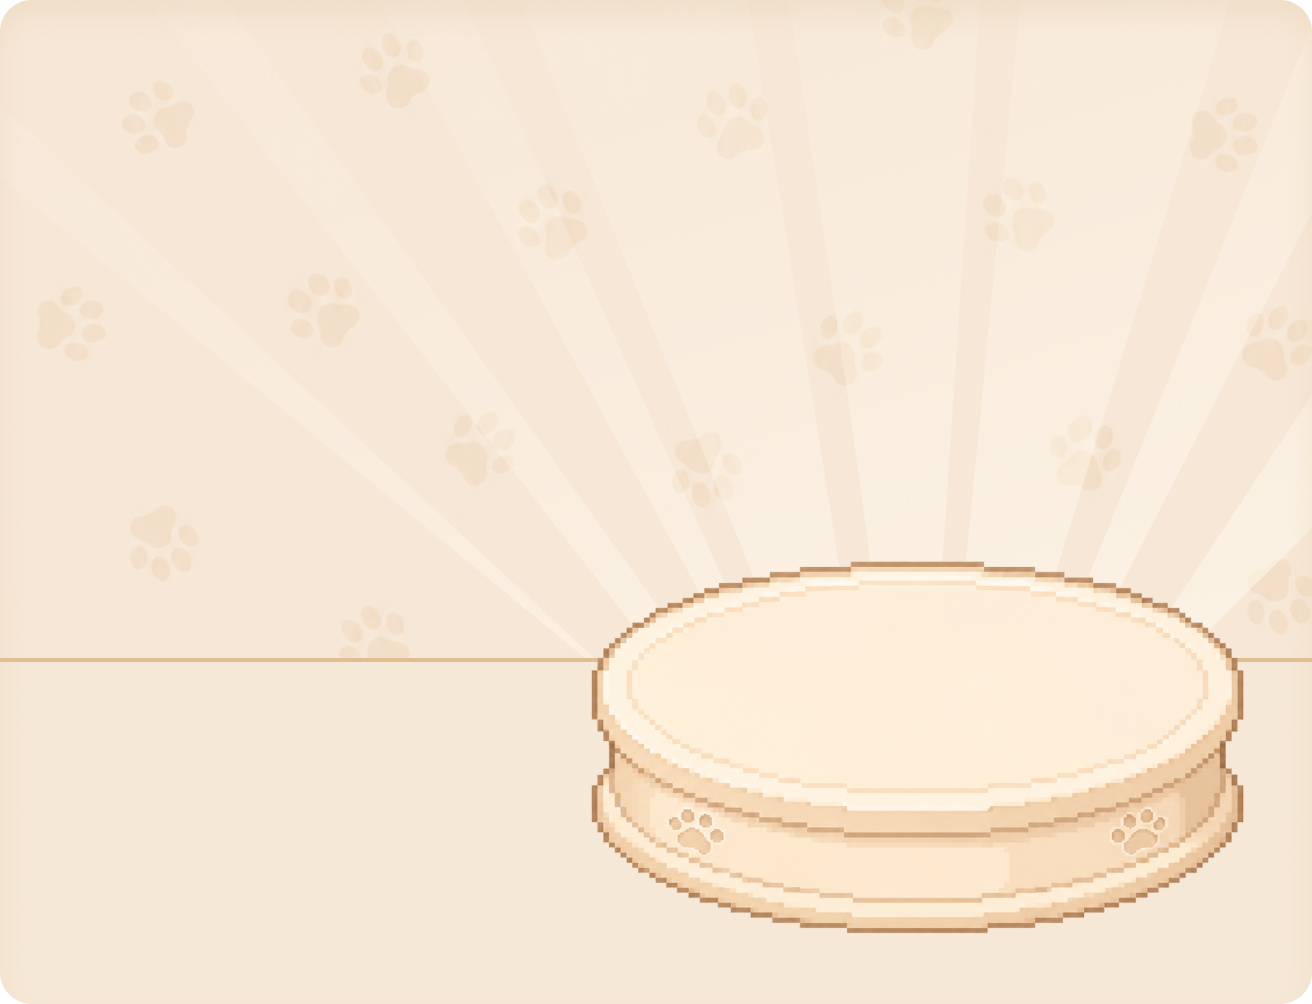
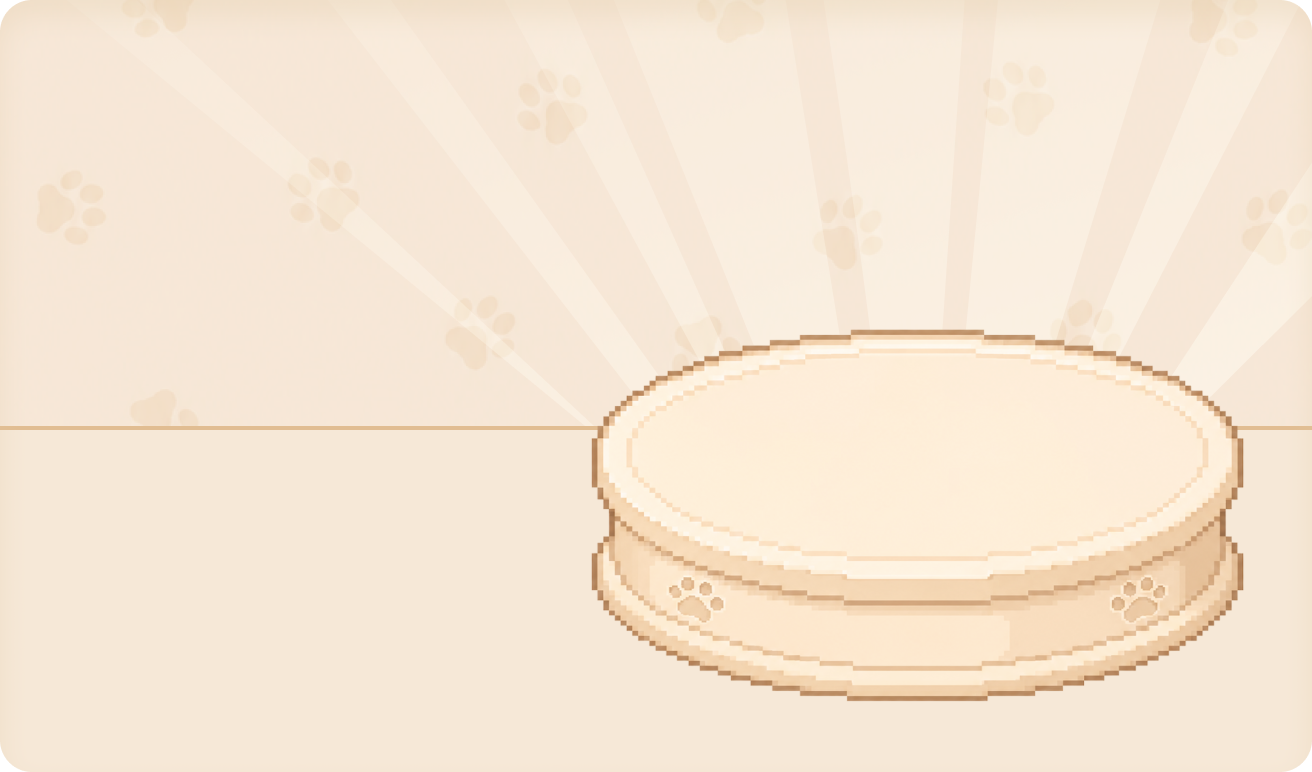
feat : 대전 결과 관장 영역 개선
- 결과 화면의 원탁 배경 에셋과 크기를 변경
- 관장 프로필과 출전 동물의 위치 및 크기를 조정
- 헤더 관장 이름과 타입을 서버 상세 정보에 연결

Changed region(s): [[0.0, 0.4041, 1.0, 0.9326], [0.9375, 0.3109, 1.0, 0.3731], [0.9062, 0.1244, 0.9375, 0.1554]]

diff --git a/src/screens/battle-result-screen/ui/BattleResultScreen.tsx b/src/screens/battle-result-screen/ui/BattleResultScreen.tsx
@@ -55,6 +55,13 @@ const COACH_TYPE_LABELS: Record<BattleCoachId, string> = {
   daon: '혼합',
   ion: '혼합',
 };
+const LEADER_TYPE_LABELS: Record<string, string> = {
+  GROUND: '땅',
+  MIXED: '혼합',
+  SEA: '바다',
+  SKY: '하늘',
+  SPACE: '우주',
+};
 const TOTAL_BADGE_COUNT = Object.keys(COACH_NAMES).length;
 
 type ResultPartyMember = {
@@ -139,8 +146,6 @@ export function BattleResultScreen() {
   const isVictory = battleResultParam !== 'LOSE';
   const coachParam = Array.isArray(coach) ? coach[0] : coach;
   const coachId = coachParam && isBattleCoachId(coachParam) ? coachParam : 'moru';
-  const coachName = COACH_NAMES[coachId];
-  const coachType = COACH_TYPE_LABELS[coachId];
   const gymLeaderIdParam = Array.isArray(gymLeaderId)
     ? gymLeaderId[0]
     : gymLeaderId;
@@ -150,6 +155,15 @@ export function BattleResultScreen() {
       ? parsedGymLeaderId
       : undefined,
   );
+  const coachName = gymLeaderDetail?.gymLeader.name ?? COACH_NAMES[coachId];
+  const serverLeaderType = gymLeaderDetail?.gymLeader.leaderType
+    .trim()
+    .toUpperCase();
+  const coachType = serverLeaderType
+    ? LEADER_TYPE_LABELS[serverLeaderType] ??
+      gymLeaderDetail?.gymLeader.leaderType ??
+      COACH_TYPE_LABELS[coachId]
+    : COACH_TYPE_LABELS[coachId];
   const battleReward = parseBattleReward(reward);
   const earnedBadgeCount = Math.min(
     gymLeaderDetail?.gymLeader.challengeOrder ?? 0,
@@ -337,29 +351,29 @@ const styles = StyleSheet.create({
   coachPanel: {
     position: 'relative',
     width: scaleByDeviceWidth(328),
-    height: scaleByDeviceWidth(251),
+    height: scaleByDeviceWidth(193),
     marginTop: scaleByDeviceWidth(8),
     overflow: 'hidden',
   },
   coachProfile: {
     position: 'absolute',
-    top: scaleByDeviceWidth(39.5),
-    left: scaleByDeviceWidth(14),
+    top: scaleByDeviceWidth(63.63),
+    left: scaleByDeviceWidth(13.11),
     width: scaleByDeviceWidth(112),
     height: scaleByDeviceWidth(111.5),
   },
   opponentCreatures: {
     position: 'absolute',
-    right: scaleByDeviceWidth(13),
-    bottom: scaleByDeviceWidth(47),
+    right: scaleByDeviceWidth(48),
+    bottom: scaleByDeviceWidth(55),
     width: scaleByDeviceWidth(158),
-    height: scaleByDeviceWidth(76),
+    height: scaleByDeviceWidth(114),
   },
   opponentCreature: {
     position: 'absolute',
     bottom: 0,
-    width: scaleByDeviceWidth(72),
-    height: scaleByDeviceWidth(72),
+    width: scaleByDeviceWidth(109.72),
+    height: scaleByDeviceWidth(109.72),
     zIndex: 1,
   },
   frontOpponentCreature: {
